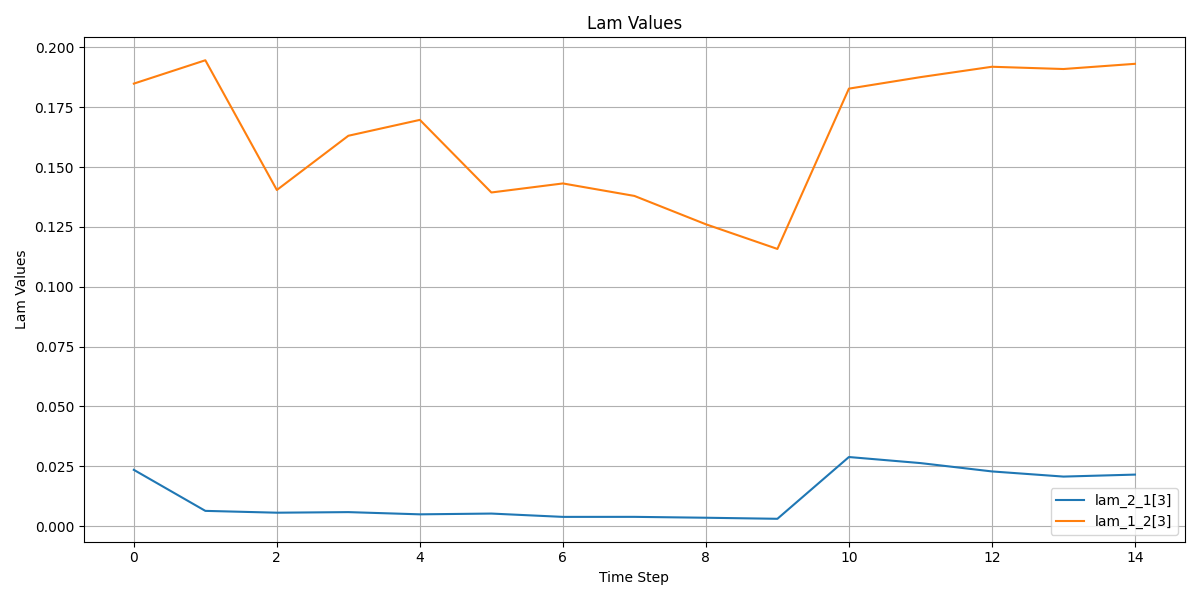
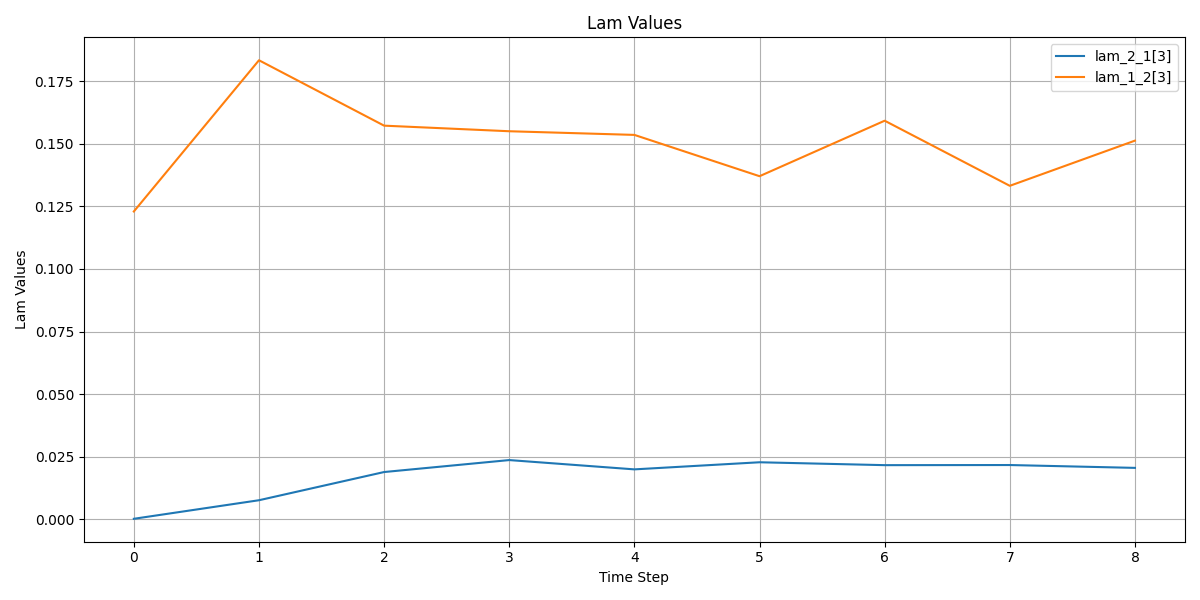
Some progression. Maybe form2 for s_ij is the issue

diff --git a/dmpc_planner_decentralised/scripts/ros_mpc_controller.py b/dmpc_planner_decentralised/scripts/ros_mpc_controller.py
@@ -224,6 +224,8 @@ class ROSMPCPlanner:
             for j in range(1, self._number_of_robots+1):
                 if j != self._idx:
                     if self._ca_solution is None:
+
+                        # Set initial duals
                         xinit_j = np.array([self._settings[f"robot_{j}"]["start_x"], self._settings[f"robot_{j}"]["start_y"], self._settings[f"robot_{j}"]["start_theta"] * np.pi])
                         x_plan_j = set_initial_x_plan(self._settings, xinit_j)
                         self._params_nmpc.set(k, f"x_{j}", x_plan_j[0, k])
@@ -247,7 +249,7 @@ class ROSMPCPlanner:
                         else:
                             self._params_nmpc.set(k, f"s_{j}_{self._idx}_0", initial_duals[k][8])
                             self._params_nmpc.set(k, f"s_{j}_{self._idx}_1", initial_duals[k][9])
-                    else:
+                    elif k == self._N -1:
                         # Hardcoded for 2 robots TODO: Generalize
                         self._params_nmpc.set(k, f"lam_{self._idx}_{j}_0", self._ca_solution[1, k])
                         self._params_nmpc.set(k, f"lam_{self._idx}_{j}_1", self._ca_solution[2, k])
@@ -265,33 +267,51 @@ class ROSMPCPlanner:
                         else:
                             self._params_nmpc.set(k, f"s_{j}_{self._idx}_0", self._ca_solution[9, k])
                             self._params_nmpc.set(k, f"s_{j}_{self._idx}_1", self._ca_solution[10, k])
+                    else:
+                        # Hardcoded for 2 robots TODO: Generalize
+                        self._params_nmpc.set(k, f"lam_{self._idx}_{j}_0", self._ca_solution[1, k+1])
+                        self._params_nmpc.set(k, f"lam_{self._idx}_{j}_1", self._ca_solution[2, k+1])
+                        self._params_nmpc.set(k, f"lam_{self._idx}_{j}_2", self._ca_solution[3, k+1])
+                        self._params_nmpc.set(k, f"lam_{self._idx}_{j}_3", self._ca_solution[4, k+1])
+
+                        self._params_nmpc.set(k, f"lam_{j}_{self._idx}_0", self._ca_solution[5, k+1])
+                        self._params_nmpc.set(k, f"lam_{j}_{self._idx}_1", self._ca_solution[6, k+1])
+                        self._params_nmpc.set(k, f"lam_{j}_{self._idx}_2", self._ca_solution[7, k+1])
+                        self._params_nmpc.set(k, f"lam_{j}_{self._idx}_3", self._ca_solution[8, k+1])
+
+                        if self._idx < j:
+                            self._params_nmpc.set(k, f"s_{self._idx}_{j}_0", self._ca_solution[9, k+1])
+                            self._params_nmpc.set(k, f"s_{self._idx}_{j}_1", self._ca_solution[10, k+1])
+                        else:
+                            self._params_nmpc.set(k, f"s_{j}_{self._idx}_0", self._ca_solution[9, k+1])
+                            self._params_nmpc.set(k, f"s_{j}_{self._idx}_1", self._ca_solution[10, k+1])
 
                         
                 
     def set_ca_parameters(self):
         # Set parameters for all k
         for k in range(self._N):
-                
-                for weight, value in self._weights.items():
-                    self._params_ca.set(k, weight, value)
+            for weight, value in self._weights.items():
+                self._params_ca.set(k, weight, value)
 
-                if self._save_lam is None:
-                    for j in range(1, self._number_of_robots+1):
-                        if j != self._idx:
-                            xinit_j = np.array([self._settings[f"robot_{j}"]["start_x"], self._settings[f"robot_{j}"]["start_y"], self._settings[f"robot_{j}"]["start_theta"] * np.pi])
-                            x_plan_j = set_initial_x_plan(self._settings, xinit_j)
-                            self._params_ca.set(k, f"x_{j}", x_plan_j[0, k])
-                            self._params_ca.set(k, f"y_{j}", x_plan_j[1, k])
-                            self._params_ca.set(k, f"theta_{j}", x_plan_j[2, k])
+            if self._save_lam is None:
+                for j in range(1, self._number_of_robots+1):
+                    if j != self._idx:
+                        xinit_j = np.array([self._settings[f"robot_{j}"]["start_x"], self._settings[f"robot_{j}"]["start_y"], self._settings[f"robot_{j}"]["start_theta"] * np.pi])
+                        x_plan_j = set_initial_x_plan(self._settings, xinit_j)
+                        self._params_ca.set(k, f"x_{j}", x_plan_j[0, k])
+                        self._params_ca.set(k, f"y_{j}", x_plan_j[1, k])
+                        self._params_ca.set(k, f"theta_{j}", x_plan_j[2, k])
 
-                if k == self._N-1:
-                    self._params_ca.set(k, f"x_{self._idx}", self._trajectory[0, k-1] + (self._trajectory[0, k-1] - self._trajectory[0, k - 2]))
-                    self._params_ca.set(k, f"y_{self._idx}", self._trajectory[1, k-1] + (self._trajectory[1, k-1] - self._trajectory[1, k - 2]))
-                    self._params_ca.set(k, f"theta_{self._idx}", self._trajectory[2, k-1] + (self._trajectory[2, k-1] - self._trajectory[2, k - 2]))
-                else:
-                    self._params_ca.set(k, f"x_{self._idx}", self._trajectory[0, k+1])
-                    self._params_ca.set(k, f"y_{self._idx}", self._trajectory[1, k+1])
-                    self._params_ca.set(k, f"theta_{self._idx}", self._trajectory[2, k+1])
+            # Set ego trajectory with one timestep shifted
+            if k == self._N-1:
+                self._params_ca.set(k, f"x_{self._idx}", self._trajectory[0, k-1] + (self._trajectory[0, k-1] - self._trajectory[0, k - 2]))
+                self._params_ca.set(k, f"y_{self._idx}", self._trajectory[1, k-1] + (self._trajectory[1, k-1] - self._trajectory[1, k - 2]))
+                self._params_ca.set(k, f"theta_{self._idx}", self._trajectory[2, k-1] + (self._trajectory[2, k-1] - self._trajectory[2, k - 2]))
+            else:
+                self._params_ca.set(k, f"x_{self._idx}", self._trajectory[0, k+1])
+                self._params_ca.set(k, f"y_{self._idx}", self._trajectory[1, k+1])
+                self._params_ca.set(k, f"theta_{self._idx}", self._trajectory[2, k+1])
 
     def initialise_duals(self):
 
@@ -299,7 +319,8 @@ class ROSMPCPlanner:
             if self._idx != j:
                 setattr(self, f'initial_duals_{j}', dual_initialiser(self._settings, self._idx, 2))
     
-    def set_uinit(self):
+    # Not used atm
+    def set_uinit(self): 
         # Set u init for the CA solver
         self._map = load_model(model_map_name=f"model_map_ca_{self._idx}")
         
@@ -322,9 +343,7 @@ class ROSMPCPlanner:
                     map_value = self._map[s_name + "_0"][1]
                     self._uinit[map_value - self._nx_ca : (map_value - self._nx_ca) + 2] = s
                     
-        
-                            
-
+                        
     def publish_throttle(self, output, exit_flag):
         throttle = Float32()
         if not self._mpc_feasible or not self._enable_output:

diff --git a/dmpc_planner_decentralised/scripts/generate_CA_solver.py b/dmpc_planner_decentralised/scripts/generate_CA_solver.py
@@ -52,7 +52,7 @@ def configuration_basic(settings, idx):
     modules.add_module(PolytopicSidualConstraintModule(settings, idx))
     modules.add_module(PolytopicSjdualConstraintModule(settings, idx))
     
-    modules.add_module(s2normConstraintModule(settings, idx))
+    # modules.add_module(s2normConstraintModule(settings, idx))
     # TODO: add norm_2 for s_ij, atm numerically unstable
 
     return model, modules

diff --git a/dmpc_planner_decentralised/scripts/mpc_controller.py b/dmpc_planner_decentralised/scripts/mpc_controller.py
@@ -143,8 +143,6 @@ class MPCPlanner:
             self._mpc_feasible = True
             self._model_nmpc.load(self._solver_nmpc)
 
-            output = dict()
-
             output[f"x_{self._idx}"] = self._model_nmpc.get(1, f"x_{self._idx}")
             output[f"y_{self._idx}"] = self._model_nmpc.get(1, f"y_{self._idx}")
             output[f"theta_{self._idx}"] = self._model_nmpc.get(1, f"theta_{self._idx}")
